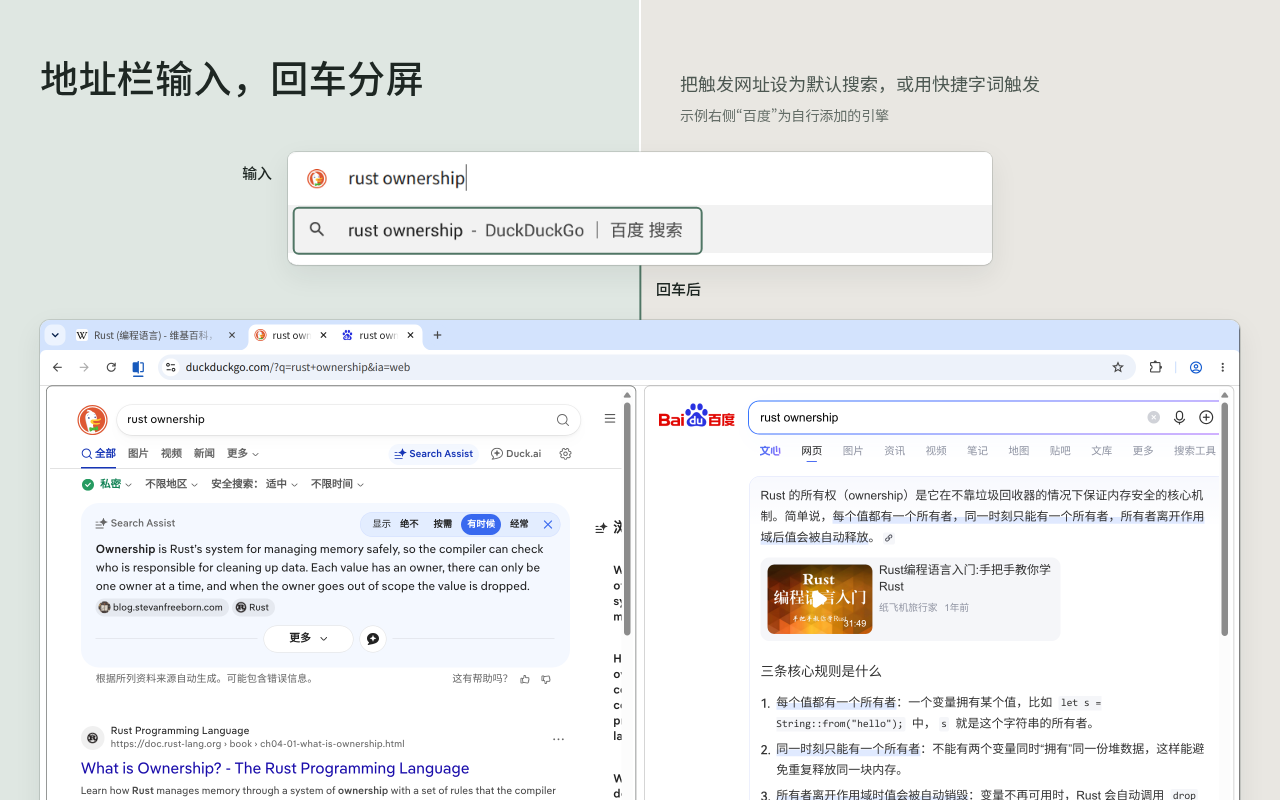
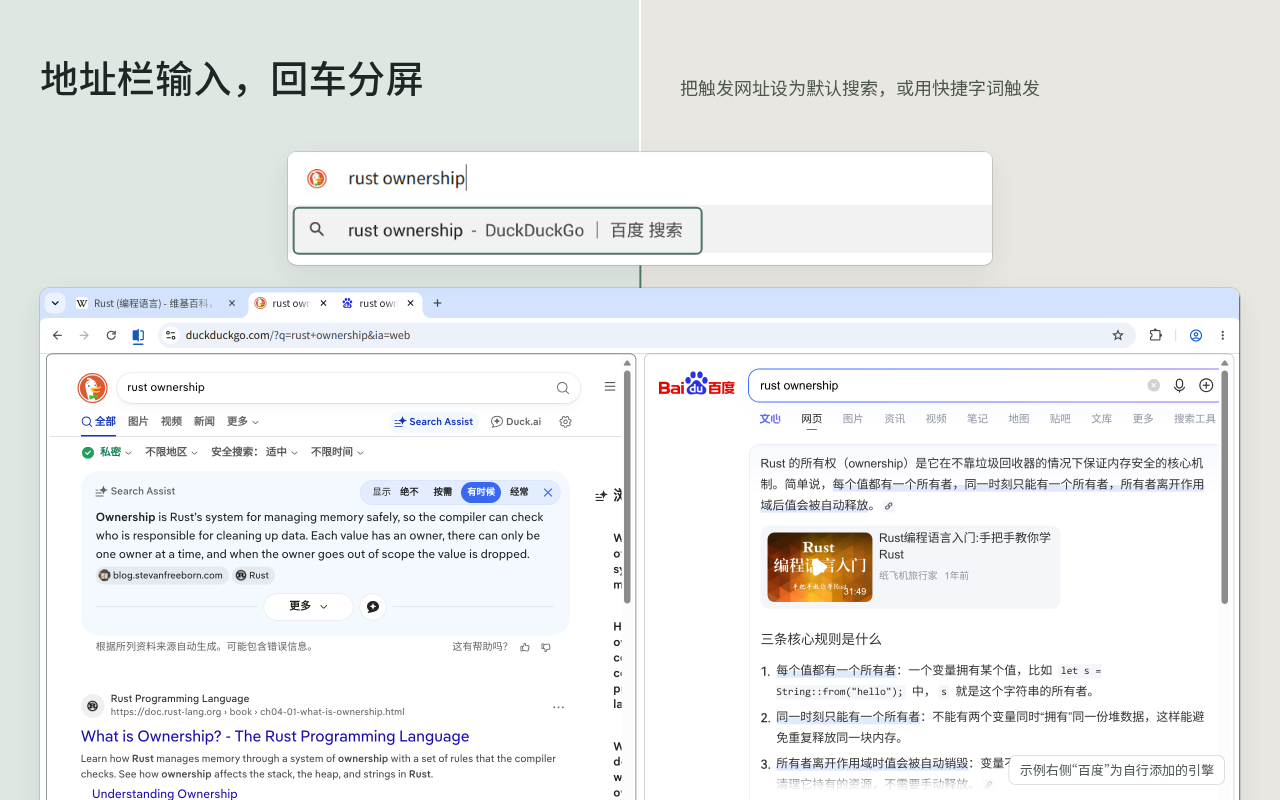
fix(store): refine promo direction d3-split
- Right pane of dark canvases uses fog-deep #78746D (white text 4.65:1);
  small promo tagline 26/700
- Marquee and README hero share name:tagline = 1.3; hero copy is now
  "一次搜索，两个引擎"
- Headline and subline glyph bottoms aligned; screenshot 2 drops the
  input/enter labels, Baidu footnote becomes a corner tag
- Split thumbnails (screenshot 3 card, screenshot 5, how-it-works step 3)
  show both panes side by side at one scale; screenshot 4/5 cards on y=232
- Screenshot 3 arrow rerouted, release card fully covers the infobox
- how-it-works copy shortened, right column aligned at x=472

diff --git a/assets/templates-d3-split/readme-how-it-works.html b/assets/templates-d3-split/readme-how-it-works.html
@@ -14,48 +14,54 @@
   .crop { border-radius: 6px; box-shadow: 0 0 0 1px var(--rule), 0 4px 14px rgba(30, 39, 35, .08); }
   .mark { border-width: 1.5px; border-radius: 4px; }
 
-  /* 上半：第 1 步（x 32–392）→ 第 2 步（x 480–848） */
-  .h1 { left: 32px; top: 22px; } .h2 { left: 480px; top: 22px; }
+  /* 两列：左列 x=32 起，右列 x=472 起（距缝 32px），上下两半共用同一左边线 */
+  /* 上半：第 1 步（x 32–392）→ 第 2 步（x 472–848） */
+  .h1 { left: 32px; top: 22px; } .h2 { left: 472px; top: 22px; }
   .omni { left: 32px; top: 56px; width: 360px; }
   .s1 { left: 32px; top: 146px; width: 360px; }
-  .arrow { position: absolute; left: 398px; top: 84px; width: 76px; white-space: nowrap; text-align: center; font-size: 11px; line-height: 14px; color: var(--ink-2); }
+  .arrow { position: absolute; left: 394px; top: 84px; width: 76px; white-space: nowrap; text-align: center; font-size: 11px; line-height: 14px; color: var(--ink-2); }
   .arrow svg { display: block; width: 52px; height: 12px; margin: 4px auto 0; }
-  .url { position: absolute; left: 480px; top: 56px; width: 368px; background: #fff; border-radius: 6px; padding: 12px 14px 10px;
+  .url { position: absolute; left: 472px; top: 56px; width: 376px; background: #fff; border-radius: 6px; padding: 12px 14px 10px;
     box-shadow: 0 0 0 1px var(--rule); }
   .url code { display: block; font: 500 13.5px/20px var(--mono); color: var(--ink); white-space: nowrap; }
   .url code b { color: var(--pine); font-weight: 700; }
   .url span { display: block; font-size: 11.5px; line-height: 16px; color: var(--ink-2); margin: 3px 0 9px; padding-top: 3px; border-top: 1px solid var(--rule); }
   .url span.s { border-top: 1.5px solid var(--pine); margin-bottom: 0; }
 
-  /* 下半：沿缝分成两种结果，截图向下出血 */
+  /* 下半：沿缝分成两种结果，截图向下出血；两边截图同为约 0.345 倍。
+     左边是分屏的两个窗格各取左边一段（中间 6px 缝），右边是同一查询的普通结果页 */
   .h3 { left: 32px; top: 202px; } .h4 { left: 472px; top: 202px; }
   .s3 { left: 32px; top: 224px; } .s4 { left: 472px; top: 224px; }
-  .res { top: 252px; width: 376px; border-radius: 6px 6px 0 0; }
-  .res.l { left: 32px; } .res.r { left: 472px; }
+  .res { position: absolute; top: 252px; width: 376px; border-radius: 6px 6px 0 0; }
+  .res.l { left: 32px; display: flex; gap: 6px; } .res.r { left: 472px; }
+  .res.l > .crop { position: relative; width: 185px; border-radius: 6px 6px 0 0; }
 </style></head>
 <body>
-  <h2 class="h1"><b>1</b>地址栏搜索，或把文字拖到标签栏</h2>
+  <h2 class="h1"><b>1</b>地址栏或拖拽搜索</h2>
   <!-- 真实截图片段：地址栏下拉建议（左边界从下拉框内侧开始，不带分屏按钮和选中条） -->
   <div class="crop omni" data-crop="238,62,600,136"><img src="../raw/omnibox-suggest.png" data-iw="2400" alt="">
     <i class="mark" data-box="244,130,500,60"></i></div>
-  <p class="sub s1">设为默认搜索后，地址栏和拖拽都会用它；<br>不设默认时，只有“快捷字词 + 空格 + 关键词”会用它。</p>
+  <p class="sub s1">设为默认搜索，或输入“快捷字词 + 空格”触发</p>
 
   <div class="arrow">Chrome 拼出<svg viewBox="0 0 52 12"><path d="M2 6H48M43 1.5L48.5 6L43 10.5" stroke="#507665" stroke-width="1.6" fill="none" stroke-linecap="round" stroke-linejoin="round"/></svg></div>
 
   <h2 class="h2"><b>2</b>触发网址</h2>
   <div class="url">
     <code>https://duckduckgo.com/?q=rust+ownership</code>
-    <span>左侧引擎的真实搜索网址（你在 Chrome 里添加的网站搜索）</span>
+    <span>左侧引擎的搜索网址</span>
     <code><b>&amp;_ss=ddg,baidu</b></code>
     <span class="s">分屏标记：左 ddg，右 baidu</span>
   </div>
 
   <h2 class="h3"><b>3</b>扩展生效：Chrome 原生分屏</h2>
-  <p class="sub s3">左侧打开真实搜索，右侧新开一个标签；都是普通标签页</p>
+  <p class="sub s3">左侧真实搜索，右侧新开一个普通标签</p>
   <h2 class="h4">扩展未生效：一次普通搜索</h2>
-  <p class="sub s4">其他设备、无痕窗口、扩展停用或未授权时，不会出错</p>
-  <!-- 真实截图：回车后的分屏，左 DuckDuckGo、右百度 -->
-  <div class="crop res l" data-crop="0,0,2400,840"><img src="../raw/omnibox-result-split.png" data-iw="2400" alt=""></div>
+  <p class="sub s4">其他设备、无痕窗口或扩展停用时，不会出错</p>
+  <!-- 真实截图：回车后的分屏，左 DuckDuckGo、右百度；两个窗格各取左边一段 -->
+  <div class="res l">
+    <div class="crop" data-crop="14,132,536,386"><img src="../raw/omnibox-result-split.png" data-iw="2400" alt=""></div>
+    <div class="crop" data-crop="1214,132,536,386"><img src="../raw/omnibox-result-split.png" data-iw="2400" alt=""></div>
+  </div>
   <!-- 真实截图的页面区域：同一查询词的 DuckDuckGo 结果页（只取左窗格网页内容，不含浏览器界面） -->
   <div class="crop res r" data-crop="14,132,1090,386"><img src="../raw/omnibox-result-split.png" data-iw="2400" alt=""></div>
   <script src="crop.js"></script>

diff --git a/assets/templates-d3-split/base.css b/assets/templates-d3-split/base.css
@@ -1,9 +1,10 @@
 /* d3-split：画布本身就是分屏。左格松针绿系、右格暖雾灰系，中间一条 2px 白缝，和图标两格之间的缝一样。
    大面积颜色 OKLCH 彩度都 ≤0.051；唯一强调色是图标的松针绿 --pine，只用于细标注线和触发网址里的 _ss。
+   深色两格的右格用比图标略深的 --fog-deep：白字对比从 3.5:1 提到 4.65:1，缩小后仍清楚；图标本身不改色。
    不用渐变装饰、不用光晕；截图只加 1px 细边和很淡的投影。 */
 :root {
   /* 图标原色：宣传图（小宣传图、marquee、README 首图）的两格底色 */
-  --pine: #507665; --fog: #8C8881;
+  --pine: #507665; --fog: #8C8881; --fog-deep: #78746D;
   /* 浅色两格：商店截图和原理图的底色 */
   --pine-mist: #DFE7E2; --fog-mist: #E9E7E2; --seam: #FFFFFF;
   --ink: #1E2723; --ink-2: #4D5852; --paper: #F5F5F2; --rule: rgba(30, 39, 35, .14);
@@ -17,7 +18,7 @@ body { position: relative; font-family: var(--font); color: var(--ink); backgrou
 
 /* 分屏画布：硬分界（不是渐变过渡），缝宽 2px，正好落在画布正中 */
 .split-light { background: linear-gradient(90deg, var(--pine-mist) 0 calc(50% - 1px), var(--seam) calc(50% - 1px) calc(50% + 1px), var(--fog-mist) calc(50% + 1px)); }
-.split-solid { color: #fff; background: linear-gradient(90deg, var(--pine) 0 calc(50% - 1px), var(--seam) calc(50% - 1px) calc(50% + 1px), var(--fog) calc(50% + 1px)); }
+.split-solid { color: #fff; background: linear-gradient(90deg, var(--pine) 0 calc(50% - 1px), var(--seam) calc(50% - 1px) calc(50% + 1px), var(--fog-deep) calc(50% + 1px)); }
 
 /* 图标放在白色圆角底板上 */
 .tile { display: grid; place-items: center; background: #fff; border-radius: 22%; }
@@ -32,16 +33,26 @@ body { position: relative; font-family: var(--font); color: var(--ink); backgrou
 .crop > svg.ann { position: absolute; left: 0; top: 0; width: 100%; height: 100%; overflow: visible; }
 .mark { position: absolute; border: 2px solid var(--pine); border-radius: 6px; }
 
-/* 商店截图页头：左格放标题，右格放一行说明，两者末行基线对齐；左右各距缝 40px 起排 */
+/* 商店截图页头：左格放标题，右格放一行说明，两者汉字字形下沿对齐（y≈97）；左右各距缝 40px 起排 */
 .head { position: absolute; top: 0; height: 132px; display: flex; flex-direction: column; justify-content: flex-end; padding-bottom: 30px; }
 .head.l { left: 40px; width: 560px; }
 .head.r { left: 680px; width: 560px; }
 .head h1 { font-size: 38px; line-height: 46px; font-weight: 600; letter-spacing: .01em; }
-.head p { font-size: 18px; line-height: 27px; color: var(--ink-2); margin-bottom: 4px; }
-.head p.fn { font-size: 14px; line-height: 20px; margin-bottom: 0; margin-top: 4px; color: var(--ink-2); opacity: .85; }
+.head p { font-size: 18px; line-height: 27px; color: var(--ink-2); margin-bottom: -1px; }
 
 /* 标注文字：不用胶囊色块，只是小号深色字 */
 .lab { position: absolute; font-size: 15px; line-height: 20px; font-weight: 600; color: var(--ink); white-space: nowrap; }
 .lab span { font-weight: 400; color: var(--ink-2); }
-/* 右格多一行脚注时：说明行仍和标题基线对齐，脚注挂在下面 */
-.head.r.fn-below { padding-bottom: 6px; }
+
+/* 白色小卡片：上沿一行标注，下面是同一比例的截图片段；向下出血 */
+.card { position: absolute; background: #fff; border-radius: 10px 10px 0 0; padding: 10px 10px 0; z-index: 2;
+  box-shadow: 0 0 0 1px var(--rule), 0 10px 28px rgba(30, 39, 35, .08); }
+.card > .lab { position: static; margin: 0 2px 8px; }
+.card .crop { position: relative; border-radius: 4px; box-shadow: 0 0 0 1px var(--rule); }
+/* 分屏的两个窗格：各取一段、同一比例，中间留 6px，像浏览器两窗格之间的缝 */
+.pair { display: flex; gap: 6px; }
+.pair > .crop { flex: none; }
+
+/* 脚注：贴在截图右下角的小白条 */
+.fn { position: absolute; z-index: 3; background: #fff; border-radius: 6px; padding: 5px 10px; font-size: 13px; line-height: 18px;
+  color: var(--ink-2); box-shadow: 0 0 0 1px var(--rule); white-space: nowrap; }

diff --git a/assets/templates-d3-split/store-3-drag.html b/assets/templates-d3-split/store-3-drag.html
@@ -5,17 +5,16 @@
 <link rel="stylesheet" href="base.css">
 <style>
   .main { left: 40px; top: 152px; width: 1200px; border-radius: 10px 10px 0 0; }
-  /* 松手后的分屏：小图贴右下，白色 6px 边框把它和底图分开 */
-  /* 松手后的分屏：白色小卡片贴右下、向下出血，避开拖拽箭头；卡片上沿一行说明 */
-  .card { position: absolute; left: 856px; top: 586px; width: 384px; height: 240px; background: #fff; border-radius: 10px 10px 0 0;
-    padding: 10px 10px 0; z-index: 2; box-shadow: 0 0 0 1px var(--rule), 0 12px 32px rgba(30, 39, 35, .16); }
-  .card .lab { position: static; margin: 0 2px 8px; }
-  .card .crop { position: relative; width: 100%; border-radius: 4px; box-shadow: 0 0 0 1px var(--rule); }
+  /* 松手后的分屏：白色小卡片贴右下、向下出血，整块盖住维基百科的 Rust 信息框（不露半个）。
+     卡片里是两个窗格顶部的局部（两个搜索框里都是“Graydon Hoare”），同为 0.45 倍 */
+  .card { left: 856px; top: 512px; width: 384px; }
+  .pair > .crop { width: 179px; }
 </style></head>
 <body class="split-light">
   <header class="head l"><h1>选中文字，拖到标签栏</h1></header>
-  <header class="head r fn-below"><p>触发网址设为默认后，松手就用两个引擎分屏</p><p class="fn">示例右侧“百度”为自行添加的引擎</p></header>
-  <!-- 真实截图：拖拽中（选中“Graydon Hoare”，拖拽影像已到标签栏，尚未松手）；箭头和框是标注 -->
+  <header class="head r"><p>触发网址设为默认后，松手就用两个引擎分屏</p></header>
+  <!-- 真实截图：拖拽中（选中“Graydon Hoare”，拖拽影像已到标签栏，尚未松手）；箭头和框是标注。
+       箭头从选区上沿出发，先向上穿过两行正文，再沿标题右侧的空白走到落点，不经过右侧信息框 -->
   <div class="crop main" data-crop="0,0,1650,1100"><img src="../raw/drag-to-tabstrip.png" data-iw="2400" alt="">
     <!-- 修补：盖掉 Xvfb 下黑底的标签插入箭头（见 assets/raw/captions.md） -->
     <img class="patch" src="../raw/patches/drag-to-tabstrip-397-61.png" data-box="397,61,32,31" alt="">
@@ -24,12 +23,15 @@
     <svg class="ann">
       <defs><marker id="h" viewBox="0 0 10 10" refX="6" refY="5" markerWidth="3.2" markerHeight="3.2" orient="auto-start-reverse">
         <path d="M0 0L10 5L0 10z" fill="#507665"/></marker></defs>
-      <path d="M884 596 C 1120 560, 1470 400, 1508 66" fill="none" stroke="#507665" stroke-width="3.6"
+      <path d="M840 582 C 850 330, 1490 380, 1509 66" fill="none" stroke="#507665" stroke-width="3.2"
         stroke-dasharray="10 9" stroke-linecap="round" marker-end="url(#h)"/>
     </svg>
   </div>
-  <!-- 真实截图：松手后的结果，左 DuckDuckGo、右百度 -->
-  <div class="card"><div class="lab">松手后 <span>左 DuckDuckGo，右百度</span></div>
-    <div class="crop" data-crop="0,0,2400,1500"><img src="../raw/drag-result-split.png" data-iw="2400" alt=""></div></div>
+  <!-- 真实截图：松手后的结果，左 DuckDuckGo、右百度；各取窗格左上角一段 -->
+  <div class="card"><div class="lab">松手后 <span>右侧“百度”为自行添加的引擎</span></div>
+    <div class="pair">
+      <div class="crop" data-crop="16,136,398,600"><img src="../raw/drag-result-split.png" data-iw="2400" alt=""></div>
+      <div class="crop" data-crop="1216,136,398,600"><img src="../raw/drag-result-split.png" data-iw="2400" alt=""></div>
+    </div></div>
   <script src="crop.js"></script>
 </body></html>

diff --git a/assets/templates-d3-split/store-5-fallback.html b/assets/templates-d3-split/store-5-fallback.html
@@ -4,25 +4,29 @@
 <meta name="asset-out" content="store/screenshot-5.png">
 <link rel="stylesheet" href="base.css">
 <style>
-  /* 同一条触发网址压在缝上；缝往下把画布分成两种结果：左格装了扩展（分屏），右格扩展未生效（普通搜索） */
-  .url { position: absolute; left: 50%; top: 176px; transform: translateX(-50%); white-space: nowrap; z-index: 2;
+  /* 同一条触发网址压在缝上；缝往下把画布分成两种结果：左格装了扩展（分屏），右格扩展未生效（普通搜索）。
+     两张卡片等宽、顶边 y=232、向下出血；里面的截图同为约 0.5 倍 */
+  .url { position: absolute; left: 50%; top: 152px; transform: translateX(-50%); white-space: nowrap; z-index: 2;
     background: #fff; border-radius: 8px; padding: 15px 24px 14px; font: 500 22px/1 var(--mono); color: var(--ink);
     box-shadow: 0 0 0 1px var(--rule), 0 8px 24px rgba(30, 39, 35, .08); }
   .url b { color: var(--pine); font-weight: 700; }
-  .lab { top: 300px; }
-  .lab.l { left: 40px; } .lab.r { left: 680px; }
-  .crop { top: 332px; width: 560px; border-radius: 10px 10px 0 0; }
-  .crop.l { left: 40px; } .crop.r { left: 680px; }
+  .card { top: 232px; width: 560px; }
+  .card.l { left: 40px; } .card.r { left: 680px; }
+  .pair > .crop { width: 267px; }
+  .card.r .crop { width: 540px; }
 </style></head>
 <body class="split-light">
   <header class="head l"><h1>没装扩展也不出错</h1></header>
   <header class="head r"><p>其他设备和无痕窗口里，它就是一次普通搜索</p></header>
   <div class="url">duckduckgo.com/?q=rust+programming<b>&amp;_ss=ddg,bing</b></div>
-  <div class="lab l">装了 Split Search <span>左右分屏</span></div>
-  <div class="lab r">扩展未生效 <span>普通的 DuckDuckGo 结果页</span></div>
-  <!-- 真实截图：触发网址经扩展建成的分屏，左 DuckDuckGo、右 Bing；取左窗格和右窗格的左半（缩放约 0.36） -->
-  <div class="crop l" data-crop="20,130,1560,1304"><img src="../raw/split-ddg-bing-rust.png" data-iw="2400" alt=""></div>
-  <!-- 真实截图的页面区域：同一网址的 DuckDuckGo 结果页（只取网页内容，不含浏览器界面；缩放约 0.51） -->
-  <div class="crop r" data-crop="14,132,1090,911"><img src="../raw/split-ddg-bing-rust.png" data-iw="2400" alt=""></div>
+  <!-- 真实截图：触发网址经扩展建成的分屏，左 DuckDuckGo、右 Bing；两个窗格各取左边一段，分界落在卡片正中 -->
+  <div class="card l"><div class="lab">装了 Split Search <span>左右分屏</span></div>
+    <div class="pair">
+      <div class="crop" data-crop="14,132,539,1300"><img src="../raw/split-ddg-bing-rust.png" data-iw="2400" alt=""></div>
+      <div class="crop" data-crop="1214,132,539,1300"><img src="../raw/split-ddg-bing-rust.png" data-iw="2400" alt=""></div>
+    </div></div>
+  <!-- 真实截图的页面区域：同一网址的 DuckDuckGo 结果页（只取网页内容，不含浏览器界面） -->
+  <div class="card r"><div class="lab">扩展未生效 <span>普通的 DuckDuckGo 结果页</span></div>
+    <div class="crop" data-crop="14,132,1090,1300"><img src="../raw/split-ddg-bing-rust.png" data-iw="2400" alt=""></div></div>
   <script src="crop.js"></script>
 </body></html>

diff --git a/assets/templates-d3-split/store-2-omnibox.html b/assets/templates-d3-split/store-2-omnibox.html
@@ -5,16 +5,15 @@
 <link rel="stylesheet" href="base.css">
 <style>
   /* 上：地址栏下拉（0.8），以画布的缝为中线；下：回车后的分屏整窗（0.5，与截图 1、3 同比例），分界线接在缝上。
-     缝从下拉框底部一直连到窗口顶部：一次输入，分成两侧。 */
+     缝从下拉框底部一直连到窗口顶部：一次输入，分成两侧。先后由上下顺序说明，不另加标签。 */
   .typed { left: 288px; top: 152px; width: 704px; z-index: 2; }
-  .main { left: 40px; top: 320px; width: 1200px; border-radius: 10px 10px 0 0; }
-  .lab.t { right: 1008px; top: 164px; text-align: right; }
-  .lab.e { left: 656px; top: 279px; }
-  .stem { position: absolute; left: 639px; width: 2px; top: 265px; height: 55px; background: var(--pine); }
+  .main { left: 40px; top: 288px; width: 1200px; border-radius: 10px 10px 0 0; }
+  .stem { position: absolute; left: 639px; width: 2px; top: 265px; height: 23px; background: var(--pine); }
+  .fn { right: 56px; bottom: 16px; }
 </style></head>
 <body class="split-light">
   <header class="head l"><h1>地址栏输入，回车分屏</h1></header>
-  <header class="head r fn-below"><p>把触发网址设为默认搜索，或用快捷字词触发</p><p class="fn">示例右侧“百度”为自行添加的引擎</p></header>
+  <header class="head r"><p>把触发网址设为默认搜索，或用快捷字词触发</p></header>
   <!-- 真实截图：回车后的分屏，左 DuckDuckGo、右百度，查询词 rust ownership，整窗，向下出血 -->
   <div class="crop main" data-crop="0,0,2400,1500"><img src="../raw/omnibox-result-split.png" data-iw="2400" alt=""></div>
   <!-- 真实截图片段：在地址栏输入 rust ownership 时的下拉建议（只取下拉框，不含下面上一轮的页面） -->
@@ -22,7 +21,6 @@
     <i class="mark" data-box="242,130,512,60"></i>
   </div>
   <div class="stem"></div>
-  <div class="lab t">输入</div>
-  <div class="lab e">回车后</div>
+  <div class="fn">示例右侧“百度”为自行添加的引擎</div>
   <script src="crop.js"></script>
 </body></html>

diff --git a/assets/templates-d3-split/store-4-engines.html b/assets/templates-d3-split/store-4-engines.html
@@ -4,20 +4,17 @@
 <meta name="asset-out" content="store/screenshot-4.png">
 <link rel="stylesheet" href="base.css">
 <style>
-  /* 一格一件事：左格是引擎列表，右格是组合与触发网址。两张截图同为 0.5 倍、等高，顶边对齐 */
-  .lab { top: 186px; }
-  .lab.l { left: 40px; } .lab.r { left: 680px; }
-  .crop { top: 218px; width: 560px; }
+  /* 一格一件事：左格是引擎列表，右格是组合与触发网址。两张截图同为 0.52 倍、等宽等高，
+     顶边在 y=232（与截图 5 同一档），在页头下方的空间里上下居中。卡片自带标题，不另加标注 */
+  .crop { top: 232px; width: 560px; }
   .crop.l { left: 40px; } .crop.r { left: 680px; }
 </style></head>
 <body class="split-light">
   <header class="head l"><h1>引擎自己选，组合随意配</h1></header>
   <header class="head r"><p>预置 5 个引擎，也能用网址模板添加</p></header>
-  <div class="lab l">搜索引擎 <span>授权、排序、编辑</span></div>
-  <div class="lab r">添加到 Chrome <span>每个组合一条触发网址</span></div>
-  <!-- 真实截图：设置页“搜索引擎”卡片（授权状态、排序、编辑） -->
-  <div class="crop l" data-crop="640,501,1120,890"><img src="../raw/options-engines.png" data-iw="2400" alt=""></div>
+  <!-- 真实截图：设置页“搜索引擎”卡片（授权状态、排序、编辑），只取卡片内容 -->
+  <div class="crop l" data-crop="662,488,1076,892"><img src="../raw/options-engines.png" data-iw="2400" alt=""></div>
   <!-- 真实截图：设置页“添加到 Chrome”卡片：默认组合、其他组合和设置步骤前四步 -->
-  <div class="crop r" data-crop="640,578,1120,890"><img src="../raw/options-top.png" data-iw="2400" alt=""></div>
+  <div class="crop r" data-crop="662,578,1076,892"><img src="../raw/options-top.png" data-iw="2400" alt=""></div>
   <script src="crop.js"></script>
 </body></html>

diff --git a/assets/templates-d3-split/readme-hero.html b/assets/templates-d3-split/readme-hero.html
@@ -6,18 +6,19 @@
 <meta name="asset-out" content="readme/hero.png">
 <link rel="stylesheet" href="base.css">
 <style>
-  .row { position: absolute; left: 0; right: 0; top: 24px; height: 40px; display: grid; grid-template-columns: 1fr 1fr; column-gap: 48px; align-items: center; }
+  .row { position: absolute; left: 0; right: 0; top: 22px; height: 44px; display: grid; grid-template-columns: 1fr 1fr; column-gap: 48px; align-items: center; }
   .brand { justify-self: end; display: flex; align-items: center; gap: 12px; }
-  .tile { width: 36px; height: 36px; }
-  .name { font-size: 26px; font-weight: 700; letter-spacing: -.01em; }
-  .line { font-size: 19px; font-weight: 500; letter-spacing: .02em; }
+  /* 与 marquee 同一层级：产品名 30 : 标语 23 ≈ 1.3；暖雾灰格上只放 ≥22px 的粗字 */
+  .tile { width: 42px; height: 42px; }
+  .name { font-size: 30px; font-weight: 700; letter-spacing: -.01em; }
+  .line { font-size: 23px; font-weight: 600; letter-spacing: .03em; }
   /* 缩放 808/2400：源图分界线 x≈1200 → 36 + 404 = 440 */
   .crop { left: 36px; top: 88px; width: 808px; border-radius: 8px 8px 0 0; box-shadow: none; }
 </style></head>
 <body class="split-solid">
   <div class="row">
     <div class="brand"><div class="tile"><img data-icon alt=""></div><div class="name">Split Search</div></div>
-    <div class="line">地址栏或拖拽搜索，两个引擎左右对比</div>
+    <div class="line">一次搜索，两个引擎</div>
   </div>
   <!-- 真实截图：左 DuckDuckGo、右 Bing，查询词 rust programming，向下出血 -->
   <div class="crop" data-crop="0,0,2400,1100"><img src="../raw/split-ddg-bing-rust.png" data-iw="2400" alt=""></div>

diff --git a/assets/templates-d3-split/promo-small.html b/assets/templates-d3-split/promo-small.html
@@ -6,12 +6,12 @@
 <style>
   /* 画布 = 放大的图标：左格松针绿、右格暖雾灰、中间 2px 白缝。
      图标压在缝上（一次搜索），产品名和标签语沿缝左右分开（两个引擎）。缩到 220×140 仍要认得出。 */
-  .tile { position: absolute; left: 182px; top: 40px; width: 76px; height: 76px; }
+  .tile { position: absolute; left: 182px; top: 42px; width: 76px; height: 76px; }
   .row { position: absolute; left: 0; right: 0; display: grid; grid-template-columns: 1fr 1fr; column-gap: 40px; }
   .row > :first-child { text-align: right; }
   .name { top: 140px; font-size: 44px; line-height: 52px; font-weight: 700; letter-spacing: -.01em; }
-  .tag { top: 204px; font-size: 22px; line-height: 30px; font-weight: 600; letter-spacing: .06em; }
-  .tag > * { opacity: .92; }
+  /* 标签语 26/700：缩到 220×140 时约 13px，两格白字对比都 ≥4.6:1 */
+  .tag { top: 204px; font-size: 26px; line-height: 34px; font-weight: 700; letter-spacing: .04em; }
 </style></head>
 <body class="split-solid">
   <div class="tile"><img data-icon alt=""></div>

diff --git a/assets/templates-d3-split/promo-marquee.html b/assets/templates-d3-split/promo-marquee.html
@@ -9,8 +9,9 @@
   .row { position: absolute; left: 0; right: 0; top: 56px; height: 64px; display: grid; grid-template-columns: 1fr 1fr; column-gap: 80px; align-items: center; }
   .brand { justify-self: end; display: flex; align-items: center; gap: 18px; }
   .tile { width: 56px; height: 56px; }
+  /* 全套同一层级：产品名 : 标语 ≈ 1.3（README 首图同比例） */
   .name { font-size: 40px; font-weight: 700; letter-spacing: -.01em; }
-  h1 { font-size: 40px; font-weight: 600; letter-spacing: .02em; }
+  h1 { font-size: 30px; font-weight: 600; letter-spacing: .03em; }
   /* 缩放 0.5：源图分屏分界线在 x≈1200 → 100 + 600 = 700 */
   .crop { left: 100px; top: 168px; width: 1200px; border-radius: 10px 10px 0 0; box-shadow: none; }
 </style></head>

diff --git a/assets/proposals/promo-d3-split/README.md b/assets/proposals/promo-d3-split/README.md
@@ -12,16 +12,20 @@ node scripts/store/render-assets.mjs --templates assets/templates-d3-split --out
 
 - 缝永远在画布正中（1280 宽在 x=639–641，1400 宽在 x=699–701，README 在 CSS x=439–441）。
 - 带分屏的真实截图按 0.5 倍（README 按 808/2400）放置，让浏览器自己的窗格分界线正好接在画布的缝上（截图 1、2、marquee、README 首图）。
-- 左格放“是什么”（标题、产品名），右格放“怎么回事”（一行说明），两边都从缝外 40px 起排，末行基线对齐。
-- 截图 4、5 和原理图下半部分：一格一件事，左右两格各放一张截图和一行标注。
+- 左格放“是什么”（标题、产品名），右格放“怎么回事”（一行说明），两边都从缝外 40px 起排；标题和说明行的汉字字形下沿都在 y≈96。页头只有标题和一行说明，没有第三层文字。
+- 窗口截图顶边只用两档：y=152（截图 1、3）和 y=232（截图 4、5）；截图 2 上方多一个下拉框，整窗在 y=288。
+- 截图 4、5 和原理图下半部分：一格一件事，左右两格各放一张截图，两边同一比例、等宽。
+- 要表示“分屏”的小图（截图 3 的松手后卡片、截图 5 左卡、原理图第 3 步）不再整窗缩小，而是两个窗格各取左上一段、同一比例并排，中间留 6px，比例 ≥0.45（原理图为 0.345，和旁边的普通结果页相同）。
 - 标注只用 2px 松针绿细线框、细虚线箭头和小号深色文字；不用胶囊色块、不用光晕。
+- “百度为自行添加的引擎”（assets-spec 第 7 条）：截图 2 是贴在右下角的小白条，截图 3 并进“松手后”卡片的标注。
 
 ## 配色
 
 | 名称 | HEX | OKLCH 彩度 | 用途 |
 |---|---|---|---|
 | 松针绿 pine | `#507665` | 0.051 | 图标左格原色。小宣传图、marquee、README 首图的左格底色；全套唯一的强调色：标注线框、箭头、步骤序号、`_ss` 参数 |
-| 暖雾灰 fog | `#8C8881` | 0.011 | 图标右格原色。小宣传图、marquee、README 首图的右格底色 |
+| 暖雾灰 fog | `#8C8881` | 0.011 | 图标右格原色，只在图标里用 |
+| 深雾灰 fog-deep | `#78746D` | 0.012 | 小宣传图、marquee、README 首图的右格底色。比图标右格深一档，同色相（h≈82） |
 | 松雾浅 pine-mist | `#DFE7E2` | 0.011 | 商店截图和原理图的左格底色 |
 | 雾灰浅 fog-mist | `#E9E7E2` | 0.007 | 商店截图和原理图的右格底色 |
 | 缝 seam | `#FFFFFF` | 0 | 两格之间的 2px 缝；截图底、标注卡片底 |
@@ -29,7 +33,7 @@ node scripts/store/render-assets.mjs --templates assets/templates-d3-split --out
 | 墨二 ink-2 | `#4D5852` | 0.017 | 说明行、脚注（对两种浅底 ≈6:1） |
 | 纸 paper | `#F5F5F2` | 0.004 | 原理图上半部分（两步共用的区域） |
 
-白字对比：松针绿上 5.1:1，暖雾灰上 3.5:1（暖雾灰格只放 ≥22px 的粗字）。没有紫色、橙色和渐变装饰；截图只有 1px 细边加很淡的投影。
+白字对比：松针绿上 5.1:1，深雾灰上 4.65:1（原来的暖雾灰只有 3.5:1，小宣传图缩小后右格字发虚，所以大面积底色改用深一档）。深色两格上的字一律 ≥22px、字重 ≥600。没有紫色、橙色和渐变装饰；截图只有 1px 细边加很淡的投影。
 
 ## 字体与字号
 
@@ -38,14 +42,14 @@ node scripts/store/render-assets.mjs --templates assets/templates-d3-split --out
 | 图 | 层级 | 字号 / 行高 / 字重 |
 |---|---|---|
 | 小宣传图 440×280 | 产品名 | 44/52，700 |
-| | 标签语 | 22/30，600，字距 .06em |
-| marquee 1400×560 | 产品名、标题 | 40，700 / 600 |
+| | 标签语 | 26/34，700，字距 .04em（缩到 220×140 约 13px） |
+| marquee 1400×560 | 产品名 / 标语 | 40，700 / 30，600（≈1.3） |
 | 商店截图 1280×800 | 标题 | 38/46，600 |
 | | 说明行 | 18/27，400 |
-| | 脚注 | 14/20，400 |
+| | 脚注小白条（截图 2） | 13/18，400 |
 | | 截图标注 | 15/20，600（补充说明 400） |
 | | 网址（截图 5） | 22，Sarasa Mono 500 |
-| README 首图（CSS 880×440，2 倍输出） | 产品名 / 价值主张 | 26，700 / 19，500 |
+| README 首图（CSS 880×440，2 倍输出） | 产品名 / 标语 | 30，700 / 23，600（≈1.3，与 marquee 同一关系） |
 | README 原理图（CSS 880×380，2 倍输出） | 步骤标题 / 说明 | 15/22，600 / 12/18 |
 | | 网址 | 13.5/20，Sarasa Mono 500 |
 
@@ -56,16 +60,17 @@ node scripts/store/render-assets.mjs --templates assets/templates-d3-split --out
 | 小宣传图 | 双引擎分屏搜索 | “一次搜索”在左格、“两个引擎”在右格，产品名也沿缝拆成 Split / Search |
 | marquee | 一次搜索 两个引擎左右对比 | 一次搜索，两个引擎 |
 | 截图 1 | 一次搜索，两个引擎左右对比 / Chrome 原生分屏，两侧都是普通标签页 | 一次搜索，两个引擎 / Chrome 原生分屏，左右各是一个普通标签页 |
-| 截图 2 | 地址栏照常搜索，回车就分屏 / 触发网址设为默认搜索，或用快捷字词触发 | 地址栏输入，回车分屏 / 把触发网址设为默认搜索，或用快捷字词触发；“百度”脚注从截图角落移到说明行下面 |
-| 截图 3 | 副标题：触发网址设为默认后，松手即用两个引擎打开分屏 | 触发网址设为默认后，松手就用两个引擎分屏；“松手后”小卡片加一句“左 DuckDuckGo，右百度”；“百度”脚注同截图 2 |
-| 截图 4 | 标题不变 | 新增两格标注：“搜索引擎 授权、排序、编辑”“添加到 Chrome 每个组合一条触发网址” |
+| 截图 2 | 地址栏照常搜索，回车就分屏 / 触发网址设为默认搜索，或用快捷字词触发 | 地址栏输入，回车分屏 / 把触发网址设为默认搜索，或用快捷字词触发；不加“输入”“回车后”标签；“百度”脚注是右下角小白条 |
+| 截图 3 | 副标题：触发网址设为默认后，松手即用两个引擎打开分屏 | 触发网址设为默认后，松手就用两个引擎分屏；“松手后”小卡片标注“右侧‘百度’为自行添加的引擎” |
+| 截图 4 | 标题不变 | 不加卡片外标注（卡片自带标题） |
 | 截图 5 | 其他设备与无痕窗口：自动退化为普通搜索 | 没装扩展也不出错 / 其他设备和无痕窗口里，它就是一次普通搜索；两格标注“装了 Split Search 左右分屏”“扩展未生效 普通的 DuckDuckGo 结果页” |
-| README 首图 | 价值主张不变 | 去掉底部白色渐隐和“左：DuckDuckGo / 右：Bing”标签 |
-| README 原理图 | 三栏 + 底部虚线降级条 | 上半两步（1 地址栏或拖拽 → 2 触发网址），下半沿缝分成“3 扩展生效：Chrome 原生分屏”和“扩展未生效：一次普通搜索”；第 1 步不再放两张拖拽局部图，只在标题里写“或把文字拖到标签栏”；“设为默认”说明移到第 1 步下方 |
+| README 首图 | 地址栏或拖拽搜索，两个引擎左右对比 | 一次搜索，两个引擎（与 marquee 相同）；去掉底部白色渐隐和“左：DuckDuckGo / 右：Bing”标签 |
+| README 原理图 | 三栏 + 底部虚线降级条 | 上半两步（1 地址栏或拖拽搜索 → 2 触发网址），下半沿缝分成“3 扩展生效：Chrome 原生分屏”和“扩展未生效：一次普通搜索”；每步说明只留一行：“设为默认搜索，或输入‘快捷字词 + 空格’触发”“左侧引擎的搜索网址”“左侧真实搜索，右侧新开一个普通标签”“其他设备、无痕窗口或扩展停用时，不会出错” |
 
 ## 待定
 
-- 截图 4 右图从“只放默认组合、放大 0.67”改成与左图同为 0.5 倍（多带了“其他组合”和设置步骤前四步），设置页正文约 11–12px，比原方案小。
-- 截图 5 左图放大到约 0.36 倍后，右侧 Bing 窗格只露出左边一条，靠分界线认出是分屏。
+- 截图 4 两张卡片是 0.52 倍（设置页正文约 11.5px）。设置页卡片内容本身约 1060 原图像素宽，按 40px 网格每格只有 560px，放不到 0.6 倍；要更大只能改成一格一张图，或重拍时把设置页窗口调窄。
+- 截图 4 右卡里设置页自己的浅蓝“默认组合”面板和蓝色“新增引擎”按钮是全套最大的饱和色块；设置页改用松针绿主题后重拍即可消除。
+- 截图 3 的虚线箭头从选区出发时仍穿过两行正文，之后沿标题右侧空白走到落点，不再经过右侧信息框。
 - 浅色画布上的白缝对比只有约 1.2:1，是有意做得很轻；如果要更明显，可以改成 `--ink-2` 细线。
-- CWS 对小宣传图的建议是“用饱和色、少用浅灰”。这里按用户要求用低饱和中间色，缩到 220×140 时仍能认出图标、产品名和标签语。
+- CWS 对小宣传图的建议是“用饱和色、少用浅灰”。这里按用户要求用低饱和中间色；缩到 220×140 时图标、产品名和标签语都清楚，缩到 146 宽时标签语只剩约 9px。
